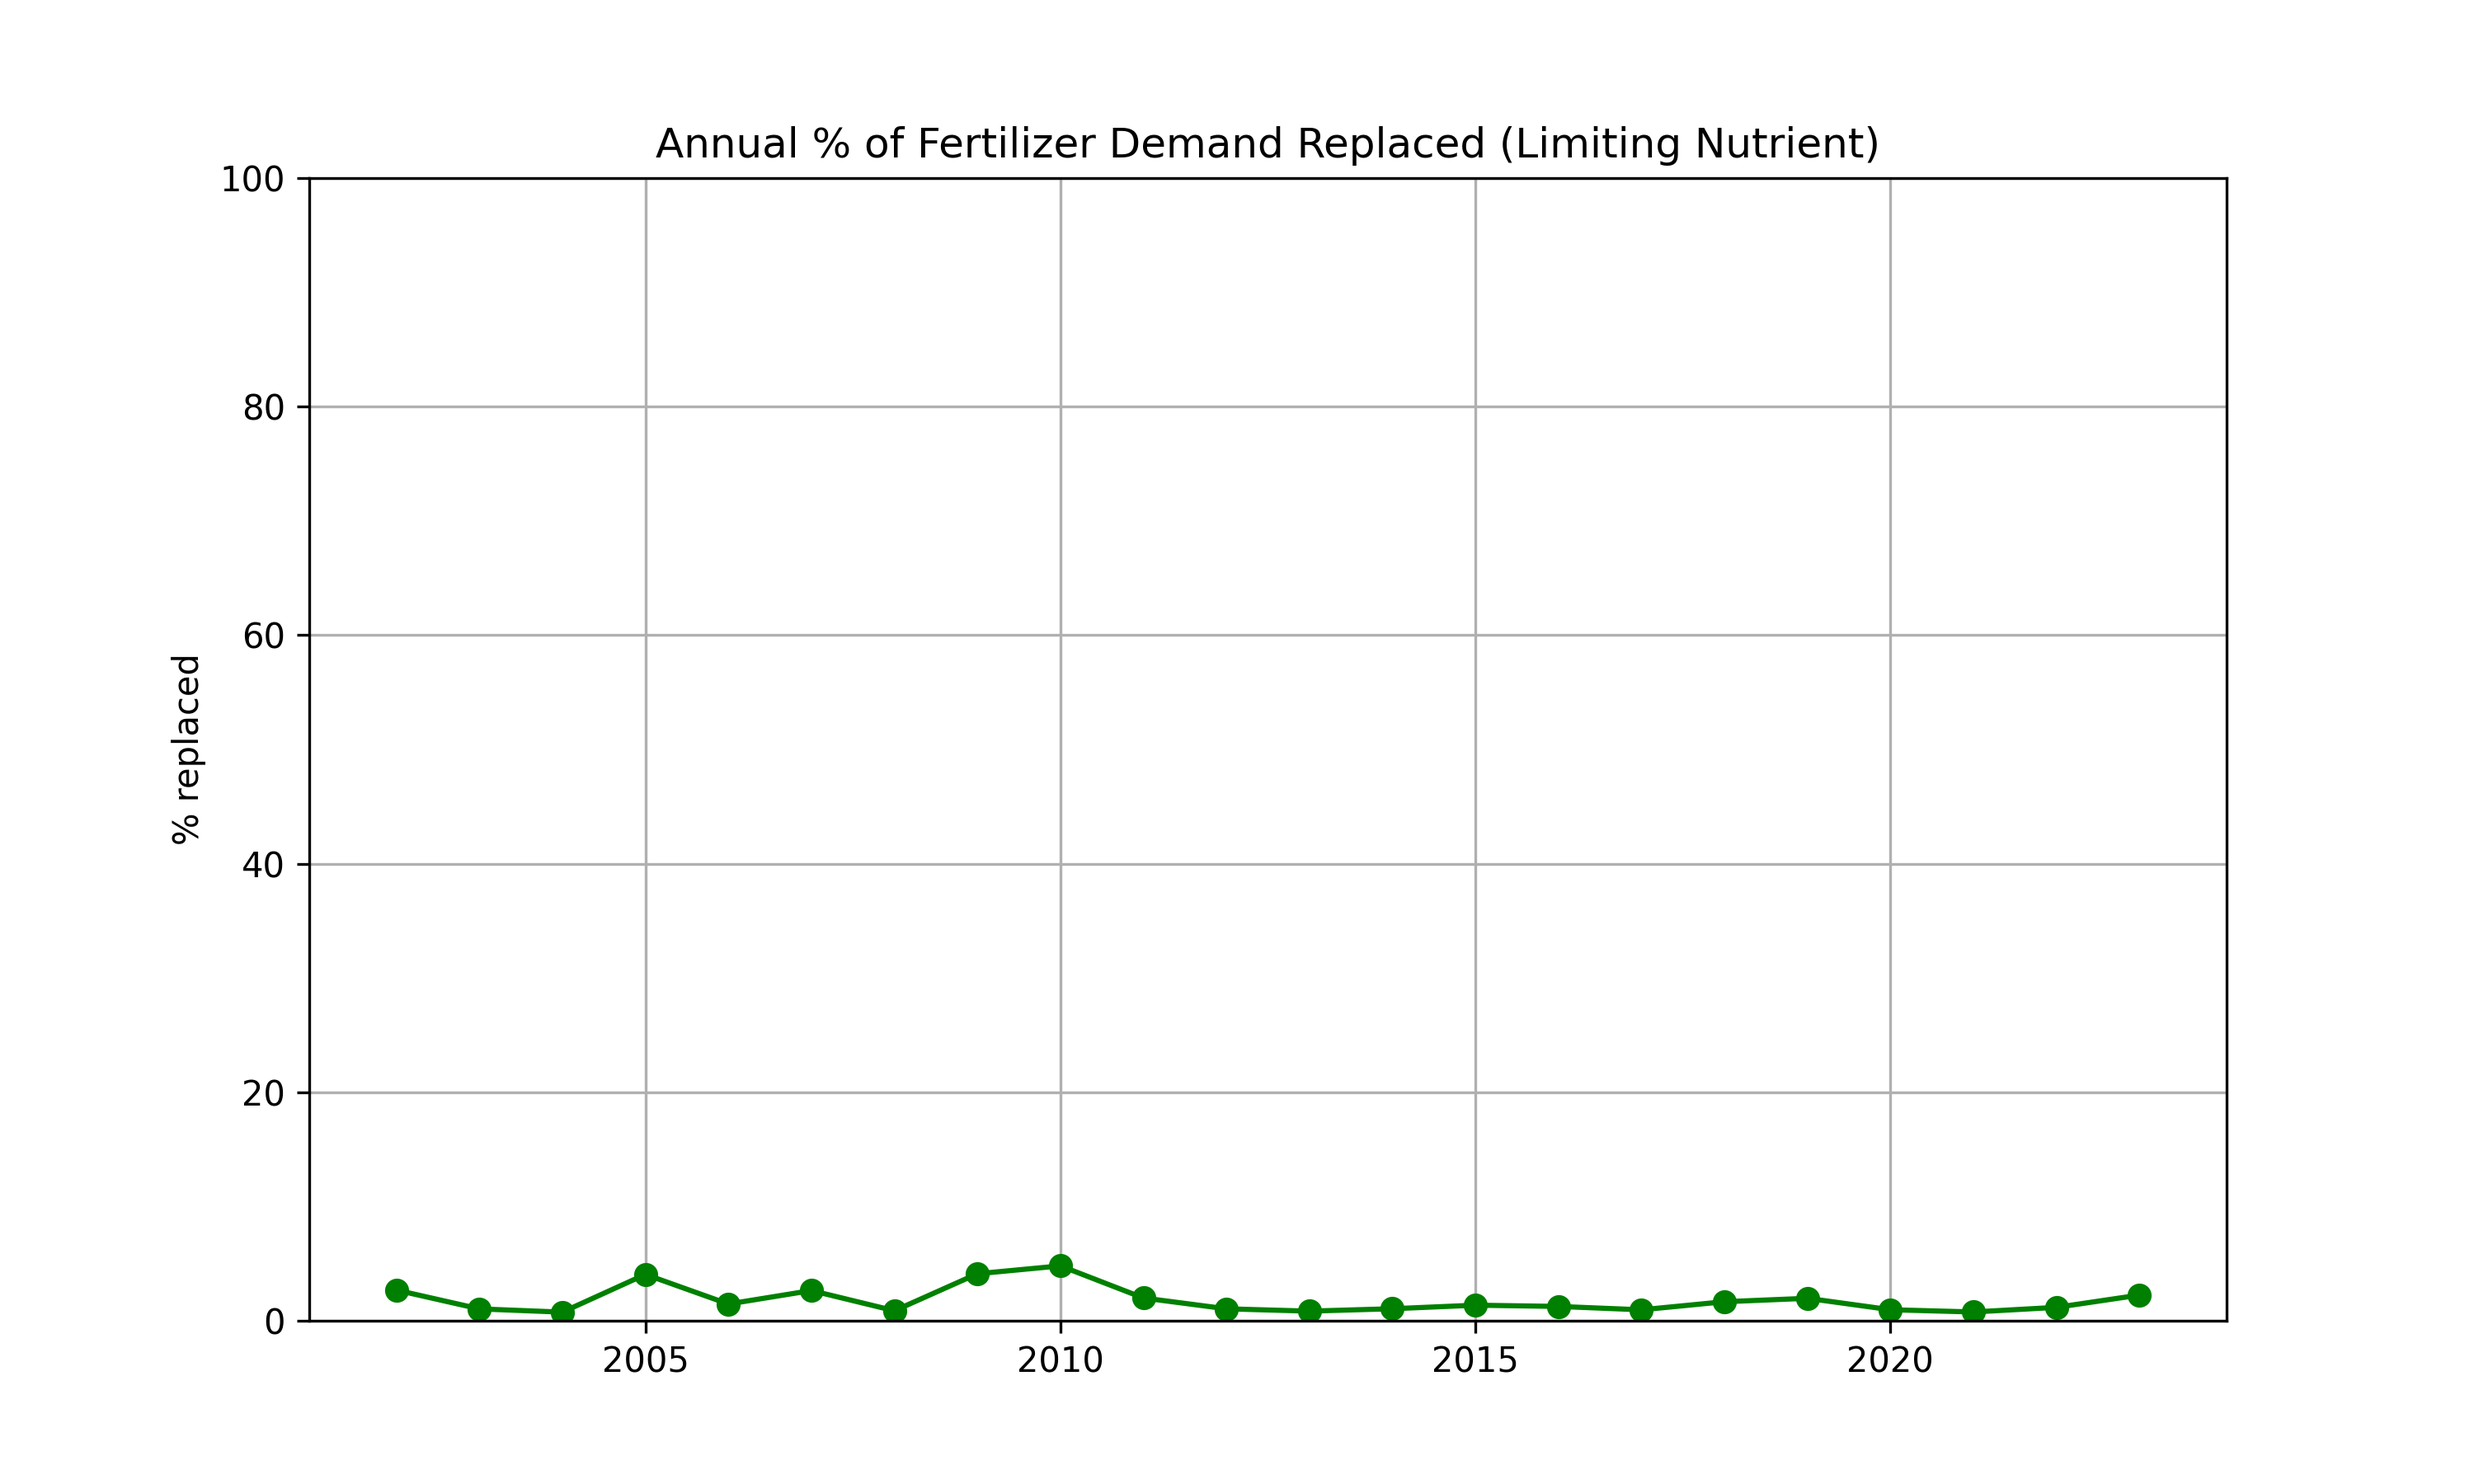
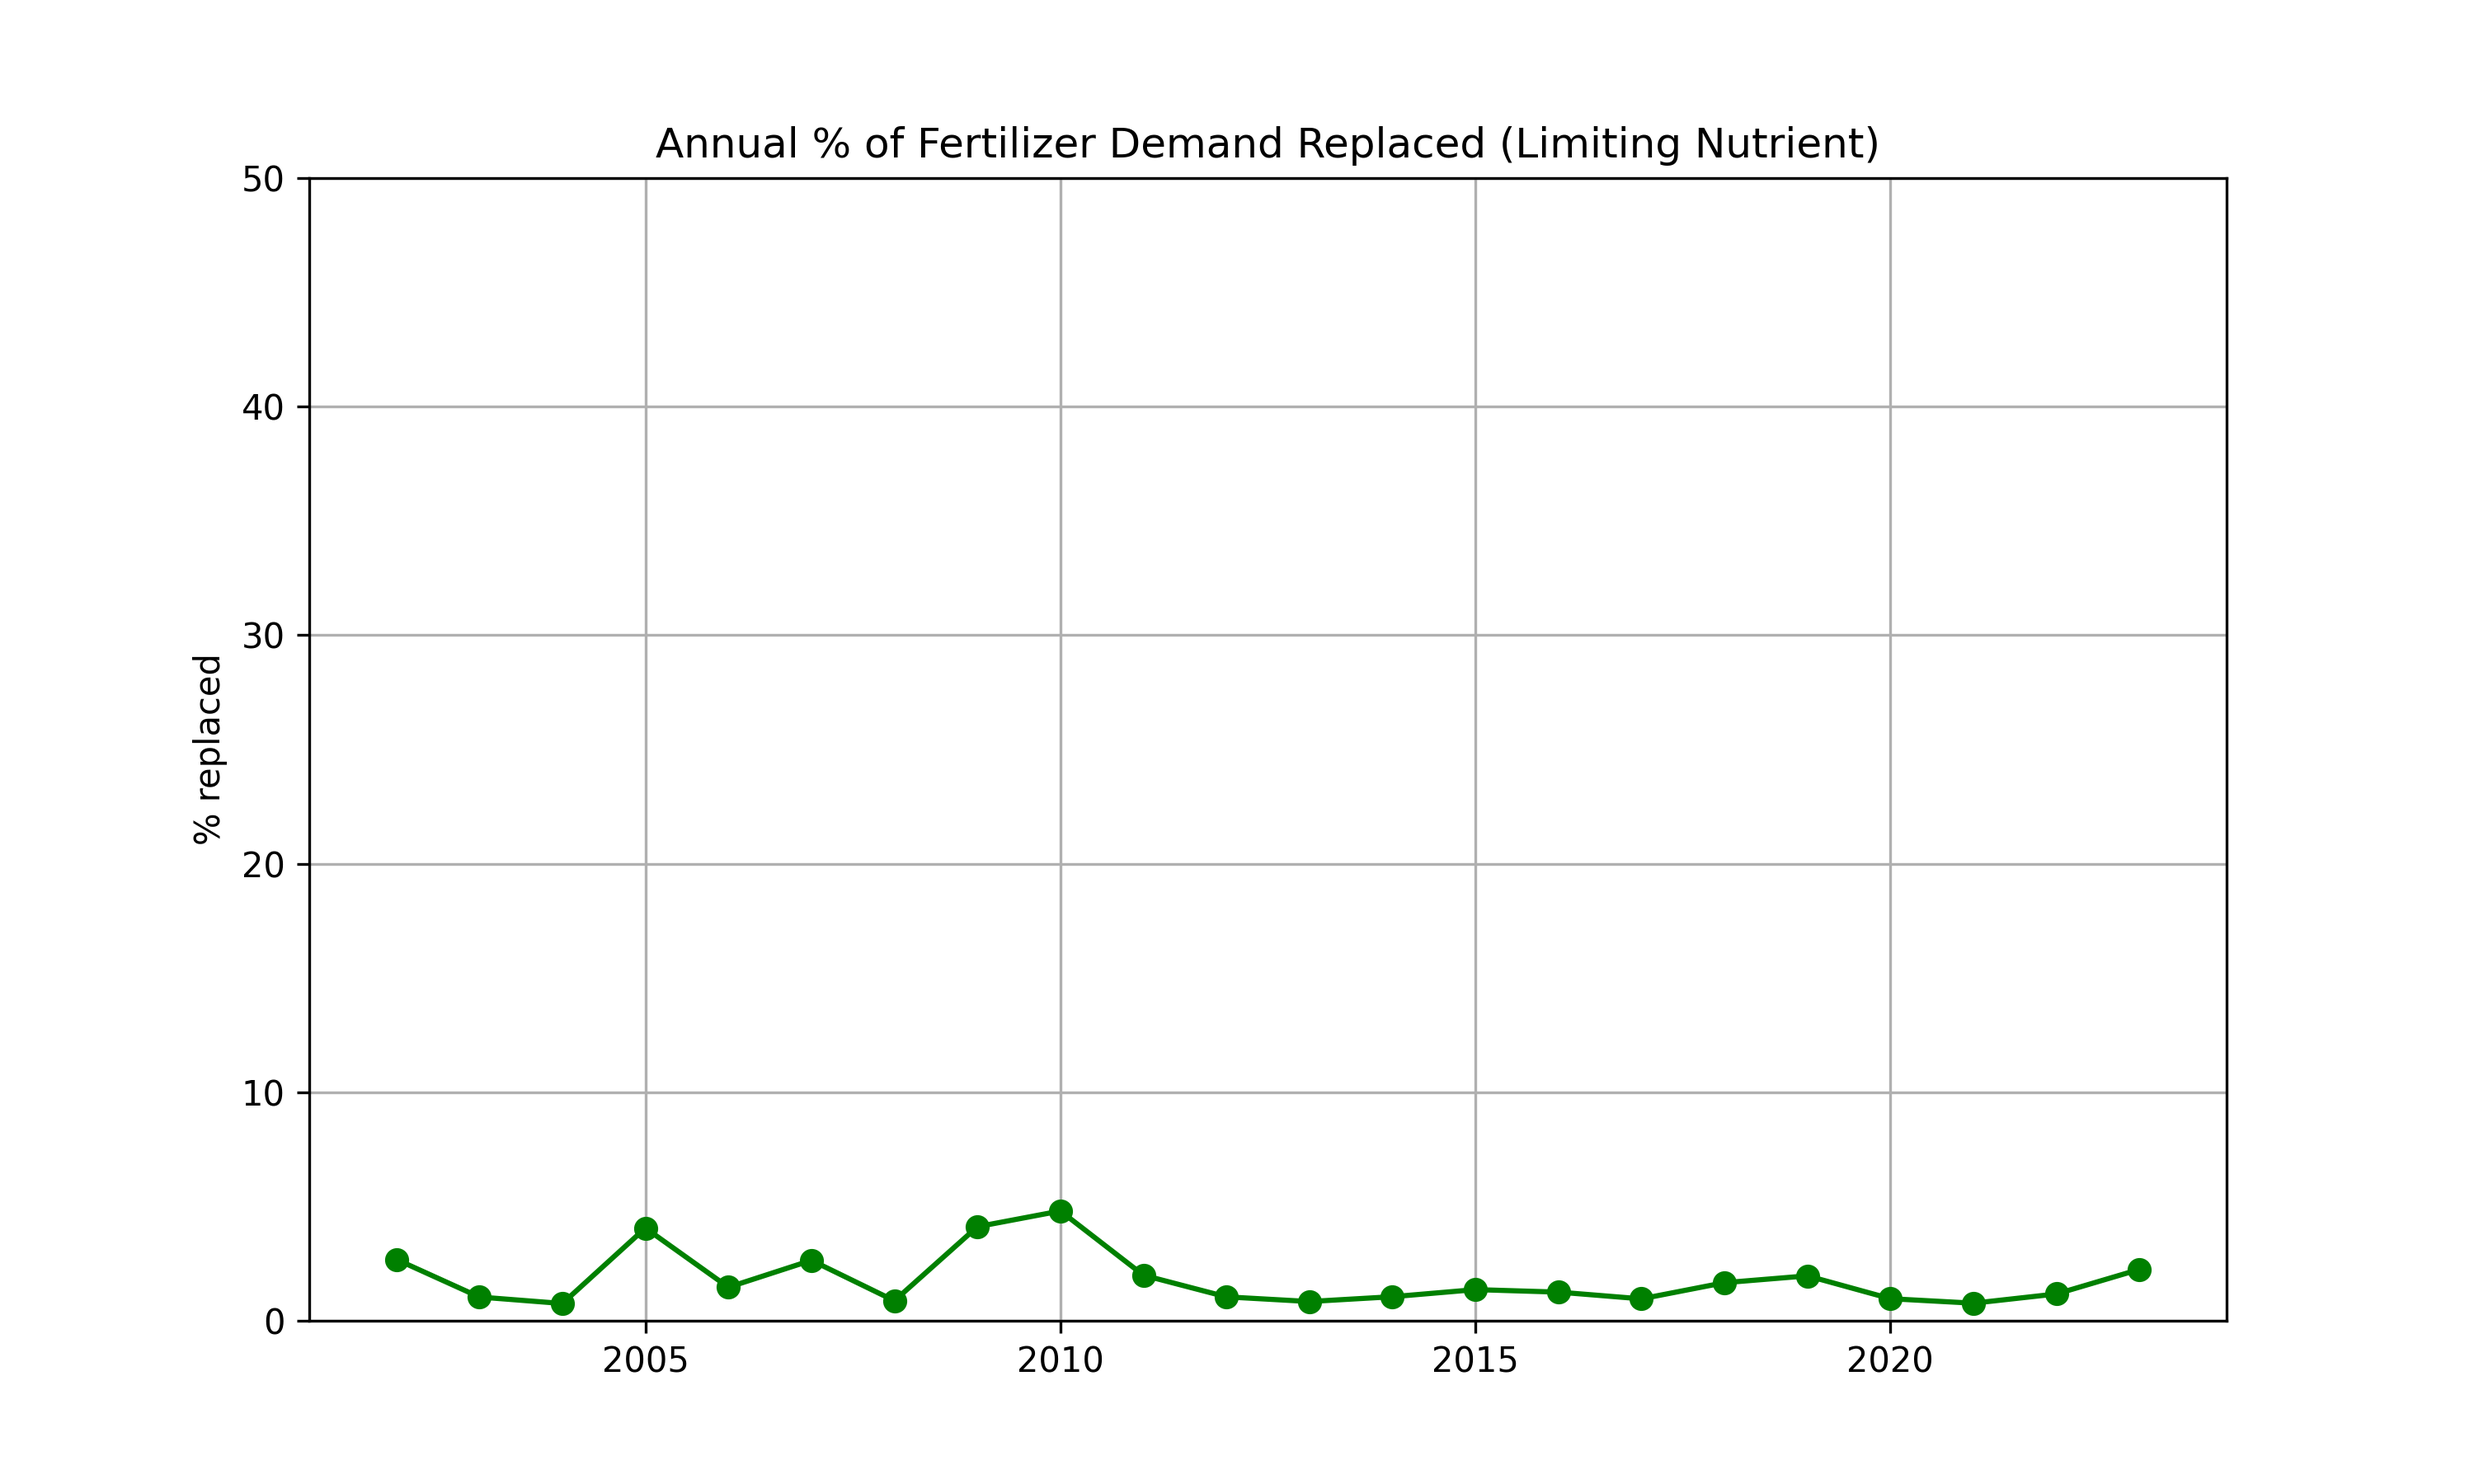
Update figures

diff --git a/Site_Specific_Analysis.py b/Site_Specific_Analysis.py
@@ -132,10 +132,10 @@ os.makedirs("Output", exist_ok=True)
 output_cols = [
     "Rank", 
     "Years_Monitored",
-    "Avg_Annual_Load_kg",         # 每年能挖多少土 (Supply Mass)
-    "Optimized_Dose_kg_ha",       # 每公顷要填多少土 (Demand per ha)
-    "Potential_Reuse_Area_ha",    # 这一年能填满几公顷 (Supply Area) <--- NEW!
-    "Total_Value_USD_ha",         # 填满的一公顷值多少钱 (Value per ha)
+    "Avg_Annual_Load_kg",         # (Supply Mass)
+    "Optimized_Dose_kg_ha",       #  (Demand per ha)
+    "Potential_Reuse_Area_ha",    #  (Supply Area) <--- NEW!
+    "Total_Value_USD_ha",         #  (Value per ha)
     "Grade_N_g_kg", 
     "Grade_P_g_kg"
 ]
@@ -176,4 +176,22 @@ plt.tight_layout()
 plt.savefig("Output/Top_Sites_Sediment_Grade.png", dpi=300)
 plt.close()
 
-print("Saved plots: Top_Sites_Economic_Value.png, Top_Sites_Sediment_Grade.png")
+# Plot 3: Percent Replacement for Top Site (Best Case Scenario)
+# Calculate replacement % for the #1 ranked site
+best_site = top_sites.iloc[0]
+pct_N_replaced = (best_site["N_Available_kg_ha"] / FERT_N_NEED) * 100
+pct_P_replaced = (best_site["P_Available_kg_ha"] / FERT_P_NEED) * 100
+
+plt.figure(figsize=(6, 6))
+plt.bar(["Nitrogen", "Phosphorus"], [pct_N_replaced, pct_P_replaced], color=["#2ca02c", "#1f77b4"])
+plt.title(f"Nutrient Replacement Potential\nTop Site: {best_site.name}")
+plt.ylabel("% of Crop Demand Met")
+plt.ylim(0, 100) # Usually top sites can meet significant demand
+plt.grid(axis="y", linestyle="--", alpha=0.5)
+for i, v in enumerate([pct_N_replaced, pct_P_replaced]):
+    plt.text(i, v + 1, f"{v:.1f}%", ha="center", fontweight="bold")
+plt.tight_layout()
+plt.savefig("Output/Top_Site_Replacement_Pct.png", dpi=300)
+plt.close()
+
+print("Saved plots: Top_Sites_Economic_Value.png, Top_Sites_Sediment_Grade.png, Top_Site_Replacement_Pct.png")

diff --git a/economic_value.py b/economic_value.py
@@ -112,7 +112,7 @@ annual["Cost_reduction_total_USD"] = (
 out_path = "Output/Annual_Region_Econ_Value.csv"
 annual.to_csv(out_path, index=False)
 
-# === 新增：输出经济分析年度数据到CSV，便于与图表匹配 ===
+# ===CSV===
 econ_trend_cols = [
     "Year", "ReuseArea_20t_ha",
     "N_applied_kg_per_ha", "P_applied_kg_per_ha",
@@ -155,7 +155,7 @@ plt.figure(figsize=(10,6))
 plt.plot(annual["Year"], annual["Percent_saved_total_pct"], marker="o", color="green")
 plt.title("Annual % of Fertilizer Demand Replaced (Limiting Nutrient)")
 plt.ylabel("% replaced")
-plt.ylim(0, 100)
+plt.ylim(0, 50)
 plt.grid()
 plt.savefig(f"{plot_dir}/Percent_Replacement_Trend.png", dpi=300)
 plt.close()
@@ -166,7 +166,7 @@ plt.plot(annual["Year"], annual["Percent_saved_N"]*100, marker="o", color="blue"
 plt.plot(annual["Year"], annual["Percent_saved_P"]*100, marker="o", color="orange", label="P replaced")
 plt.title("Annual Replacement Rate for N and P (%)")
 plt.ylabel("% replaced")
-plt.ylim(0, 100)
+plt.ylim(0, 50)
 plt.legend()
 plt.grid()
 plt.savefig(f"{plot_dir}/N_P_Replacement_Trend.png", dpi=300)
@@ -226,7 +226,7 @@ plt.plot(annual["Year"], (annual["N_usable_kg_per_ha"]/fert_N_need)*100, marker=
 plt.plot(annual["Year"], (annual["P_usable_kg_per_ha"]/fert_P_need)*100, marker="o", color="orange", label="% P demand met")
 plt.title("Percent of Crop Nutrient Demand Met by Recovered Nutrients (after availability)")
 plt.ylabel("% of demand")
-plt.ylim(0, 200)
+plt.ylim(0, 50)
 plt.legend()
 plt.grid()
 plt.savefig(f"{plot_dir}/Recovered_NP_pct_demand_20t.png", dpi=300)

diff --git a/Sediment_out.py b/Sediment_out.py
@@ -217,7 +217,7 @@ annual_region["kgP_recovered_per_ha_20t"] = annual_region["gP_recovered_per_ha_2
 annual_region["gN_recovered_per_ha_20t"] = annual_region["gN_per_kg_sediment"] * dose_kg_per_ha
 annual_region["kgN_recovered_per_ha_20t"] = annual_region["gN_recovered_per_ha_20t"] / 1000.0
 
-# 新增：颗粒态P/N年产量（kg/ha/year）
+# --- Particulate P/N yield trend (line plot) (kg/ha/year) ---
 annual_region["Particulate_P_kg_ha_yr"] = np.where(
     annual_region["Effective_Area_ha"] > 0,
     annual_region["Particulate_P_kg"] / annual_region["Effective_Area_ha"],
@@ -298,7 +298,7 @@ plt.grid()
 plt.savefig("Output/Particulate_PN_Total_Trend.png", dpi=300)
 plt.close()
 
-# --- 新增：颗粒态P/N年产量趋势（kg/ha/year）---
+# --- Particulate P/N yield trend (line plot)（kg/ha/year）---
 plt.figure(figsize=(10,6))
 plt.plot(annual_region["Year"], annual_region["Particulate_P_kg_ha_yr"], marker="o", color="purple", label="Particulate P Yield (kg/ha/year)")
 plt.plot(annual_region["Year"], annual_region["Particulate_N_kg_ha_yr"], marker="o", color="green", label="Particulate N Yield (kg/ha/year)")

diff --git a/README.md b/README.md
@@ -3,7 +3,7 @@
 **Author:** Mingyu Wang  
 **Course:** Sustainable Engineering Principles  
 **Date:** November 20, 2025  
-**Version:** 3.0 (Draft Report Version)
+**Version:** 3.0 (Final Report)
 
 ---
 
@@ -30,30 +30,44 @@ The core objectives were:
 
 ### 3.1 Data Source
 The analysis utilizes USGS storm event data (`All_EOF_StormEventLoadsRainCalculated.csv`), which includes:
--   **Runoff Volume**: Total water volume per storm event.
--   **Concentrations**: Raw concentrations (mg/L) of Total N, Total P, Orthophosphate, TKN, and Ammonia.
+-   **Runoff Volume**: Total water volume per storm event ($L$).
+-   **Concentrations**: Raw concentrations ($mg/L$) of Total N, Total P, Orthophosphate, TKN, and Ammonia.
 
 ### 3.2 Nutrient Partitioning (The "Particulate" Logic)
 A critical improvement in this analysis (v3.0) is the distinction between **dissolved** and **particulate** nutrients.
--   **Dissolved Nutrients** (e.g., Nitrate, Orthophosphate) stay in the water column and are lost during sediment dredging/dewatering.
+-   **Dissolved Nutrients** (e.g., Nitrate, Orthophosphate) stay in the water column and are lost during sediment dredging or dewatering.
 -   **Particulate Nutrients** (Sediment-bound) are the only fraction recoverable for solid reuse.
 
 We calculated the recoverable fraction as:
 $$ P_{particulate} = P_{Total (unfiltered)} - P_{Orthophosphate (dissolved)} $$
 $$ N_{particulate} = N_{TKN (unfiltered)} - N_{Ammonia+Ammonium (dissolved)} $$
 
+*Note: TKN (Total Kjeldahl Nitrogen) measures Organic N + Ammonia. Subtracting Ammonia isolates the Organic Particulate Nitrogen.*
+
 ### 3.3 Economic Valuation Models
-We applied two distinct economic models to assess viability:
+We applied two distinct economic models to assess viability.
 
-**Model A: Regional Fixed-Dose (General Assessment)**
--   **Assumption**: Sediment is applied at a standard rate of **20 tons/ha**.
--   **Calculation**: Value = (Recovered N/ha × Price N) + (Recovered P/ha × Price P).
--   **Purpose**: To see if "bulk" sediment reuse is economically attractive.
+#### Model A: Regional Fixed-Dose (General Assessment)
+This model assumes a standard application scenario for the entire region.
+-   **Application Rate**: 20 tons/ha ($20,000\ kg/ha$).
+-   **Nutrient Availability**:
+    -   Nitrogen: 50% ($Avail_N = 0.5$) - assumes mineralization of organic N.
+    -   Phosphorus: 80% ($Avail_P = 0.8$).
+-   **Value Calculation**:
+    $$ N_{applied} = Grade_N (g/kg) \times 20 (t/ha) $$
+    $$ N_{usable} = N_{applied} \times Avail_N $$
+    $$ Value_{N} = \min(N_{usable}, Demand_{N}) \times Price_{N} $$
+    *(Similar calculation for P)*
+    $$ Total\ Value = Value_{N} + Value_{P} $$
 
-**Model B: Site-Specific P-Limited (Optimized Assessment)**
--   **Assumption**: Application rate is dynamic, limited by the crop's Phosphorus demand (to avoid P runoff).
--   **Calculation**: Dose = Crop P Demand / Sediment P Content.
--   **Purpose**: To find high-grade sites where the sediment is potent enough to be a valuable fertilizer.
+#### Model B: Site-Specific P-Limited (Optimized Assessment)
+This model optimizes the dose for each specific site to maximize value without causing phosphorus runoff.
+-   **Constraint**: The dose is limited by the crop's Phosphorus demand ($22\ kg\ P/ha$).
+-   **Dynamic Dose Calculation**:
+    $$ Dose_{opt} (kg/ha) = \frac{Demand_{P}}{Grade_{P} \times Avail_{P}} $$
+    *(Capped at a physical limit of 100 tons/ha)*
+-   **Economic Value**:
+    Calculated using the $Dose_{opt}$ to determine total N and P savings per hectare.
 
 ---
 
